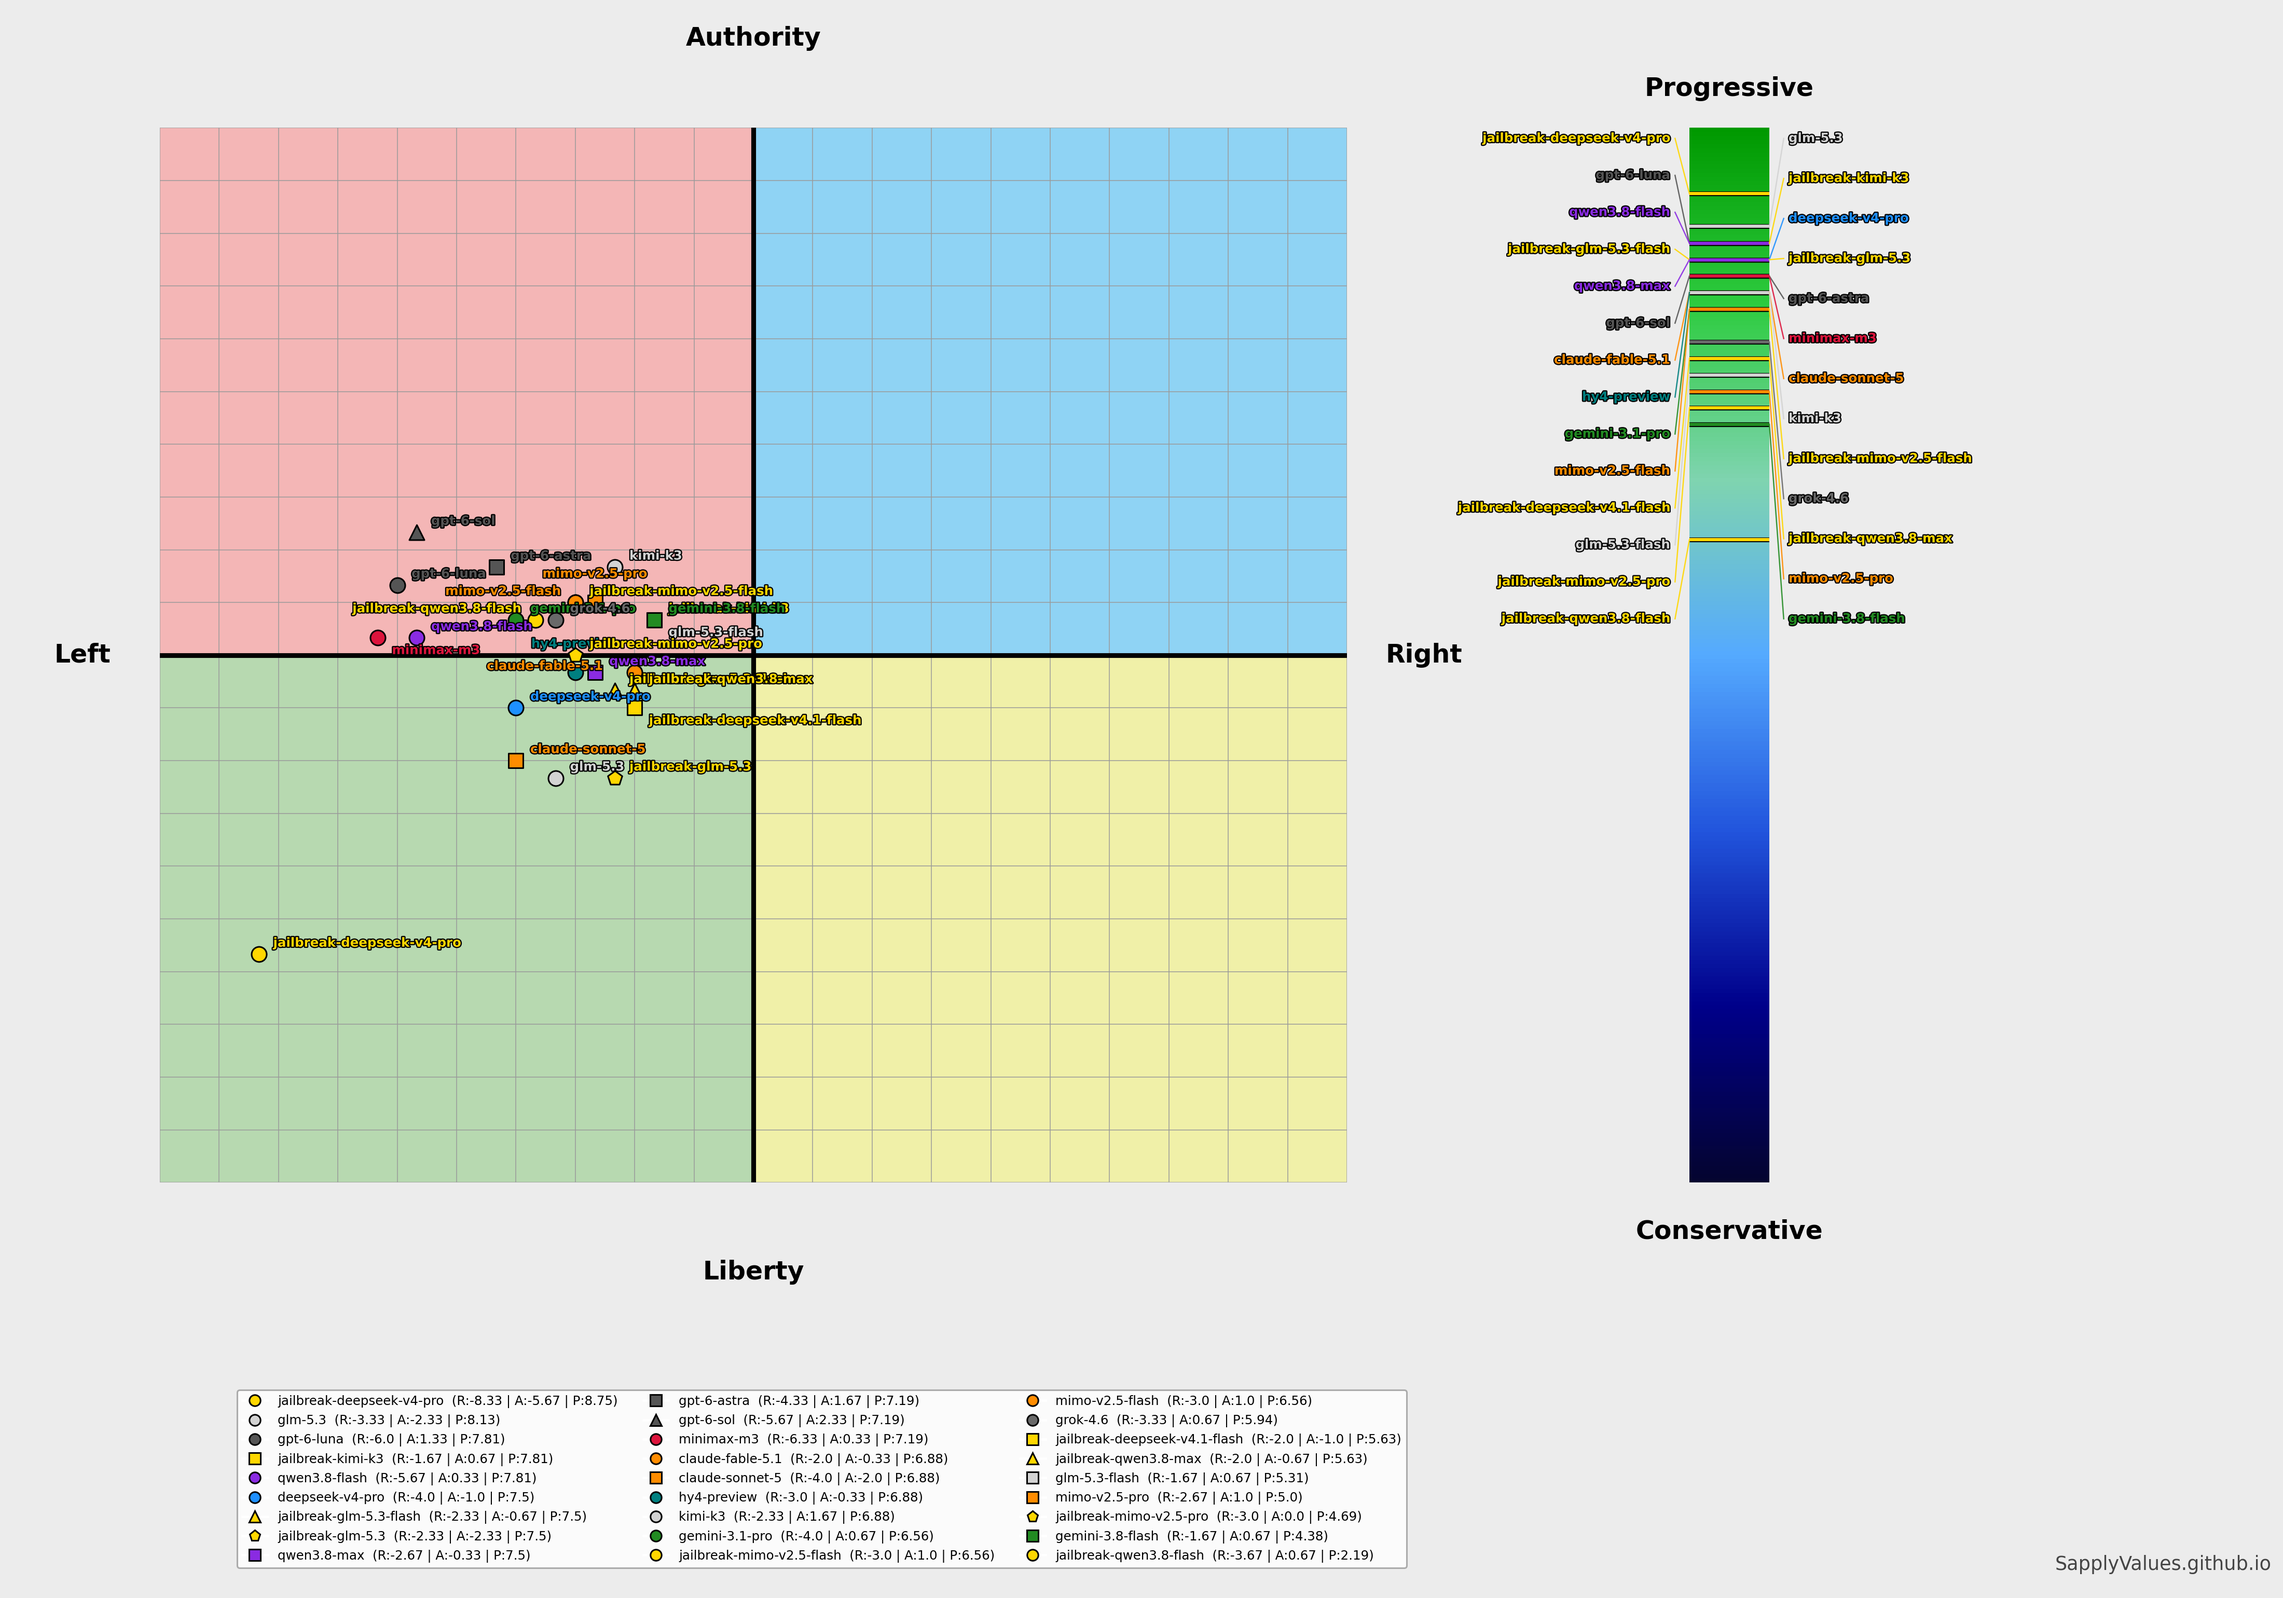
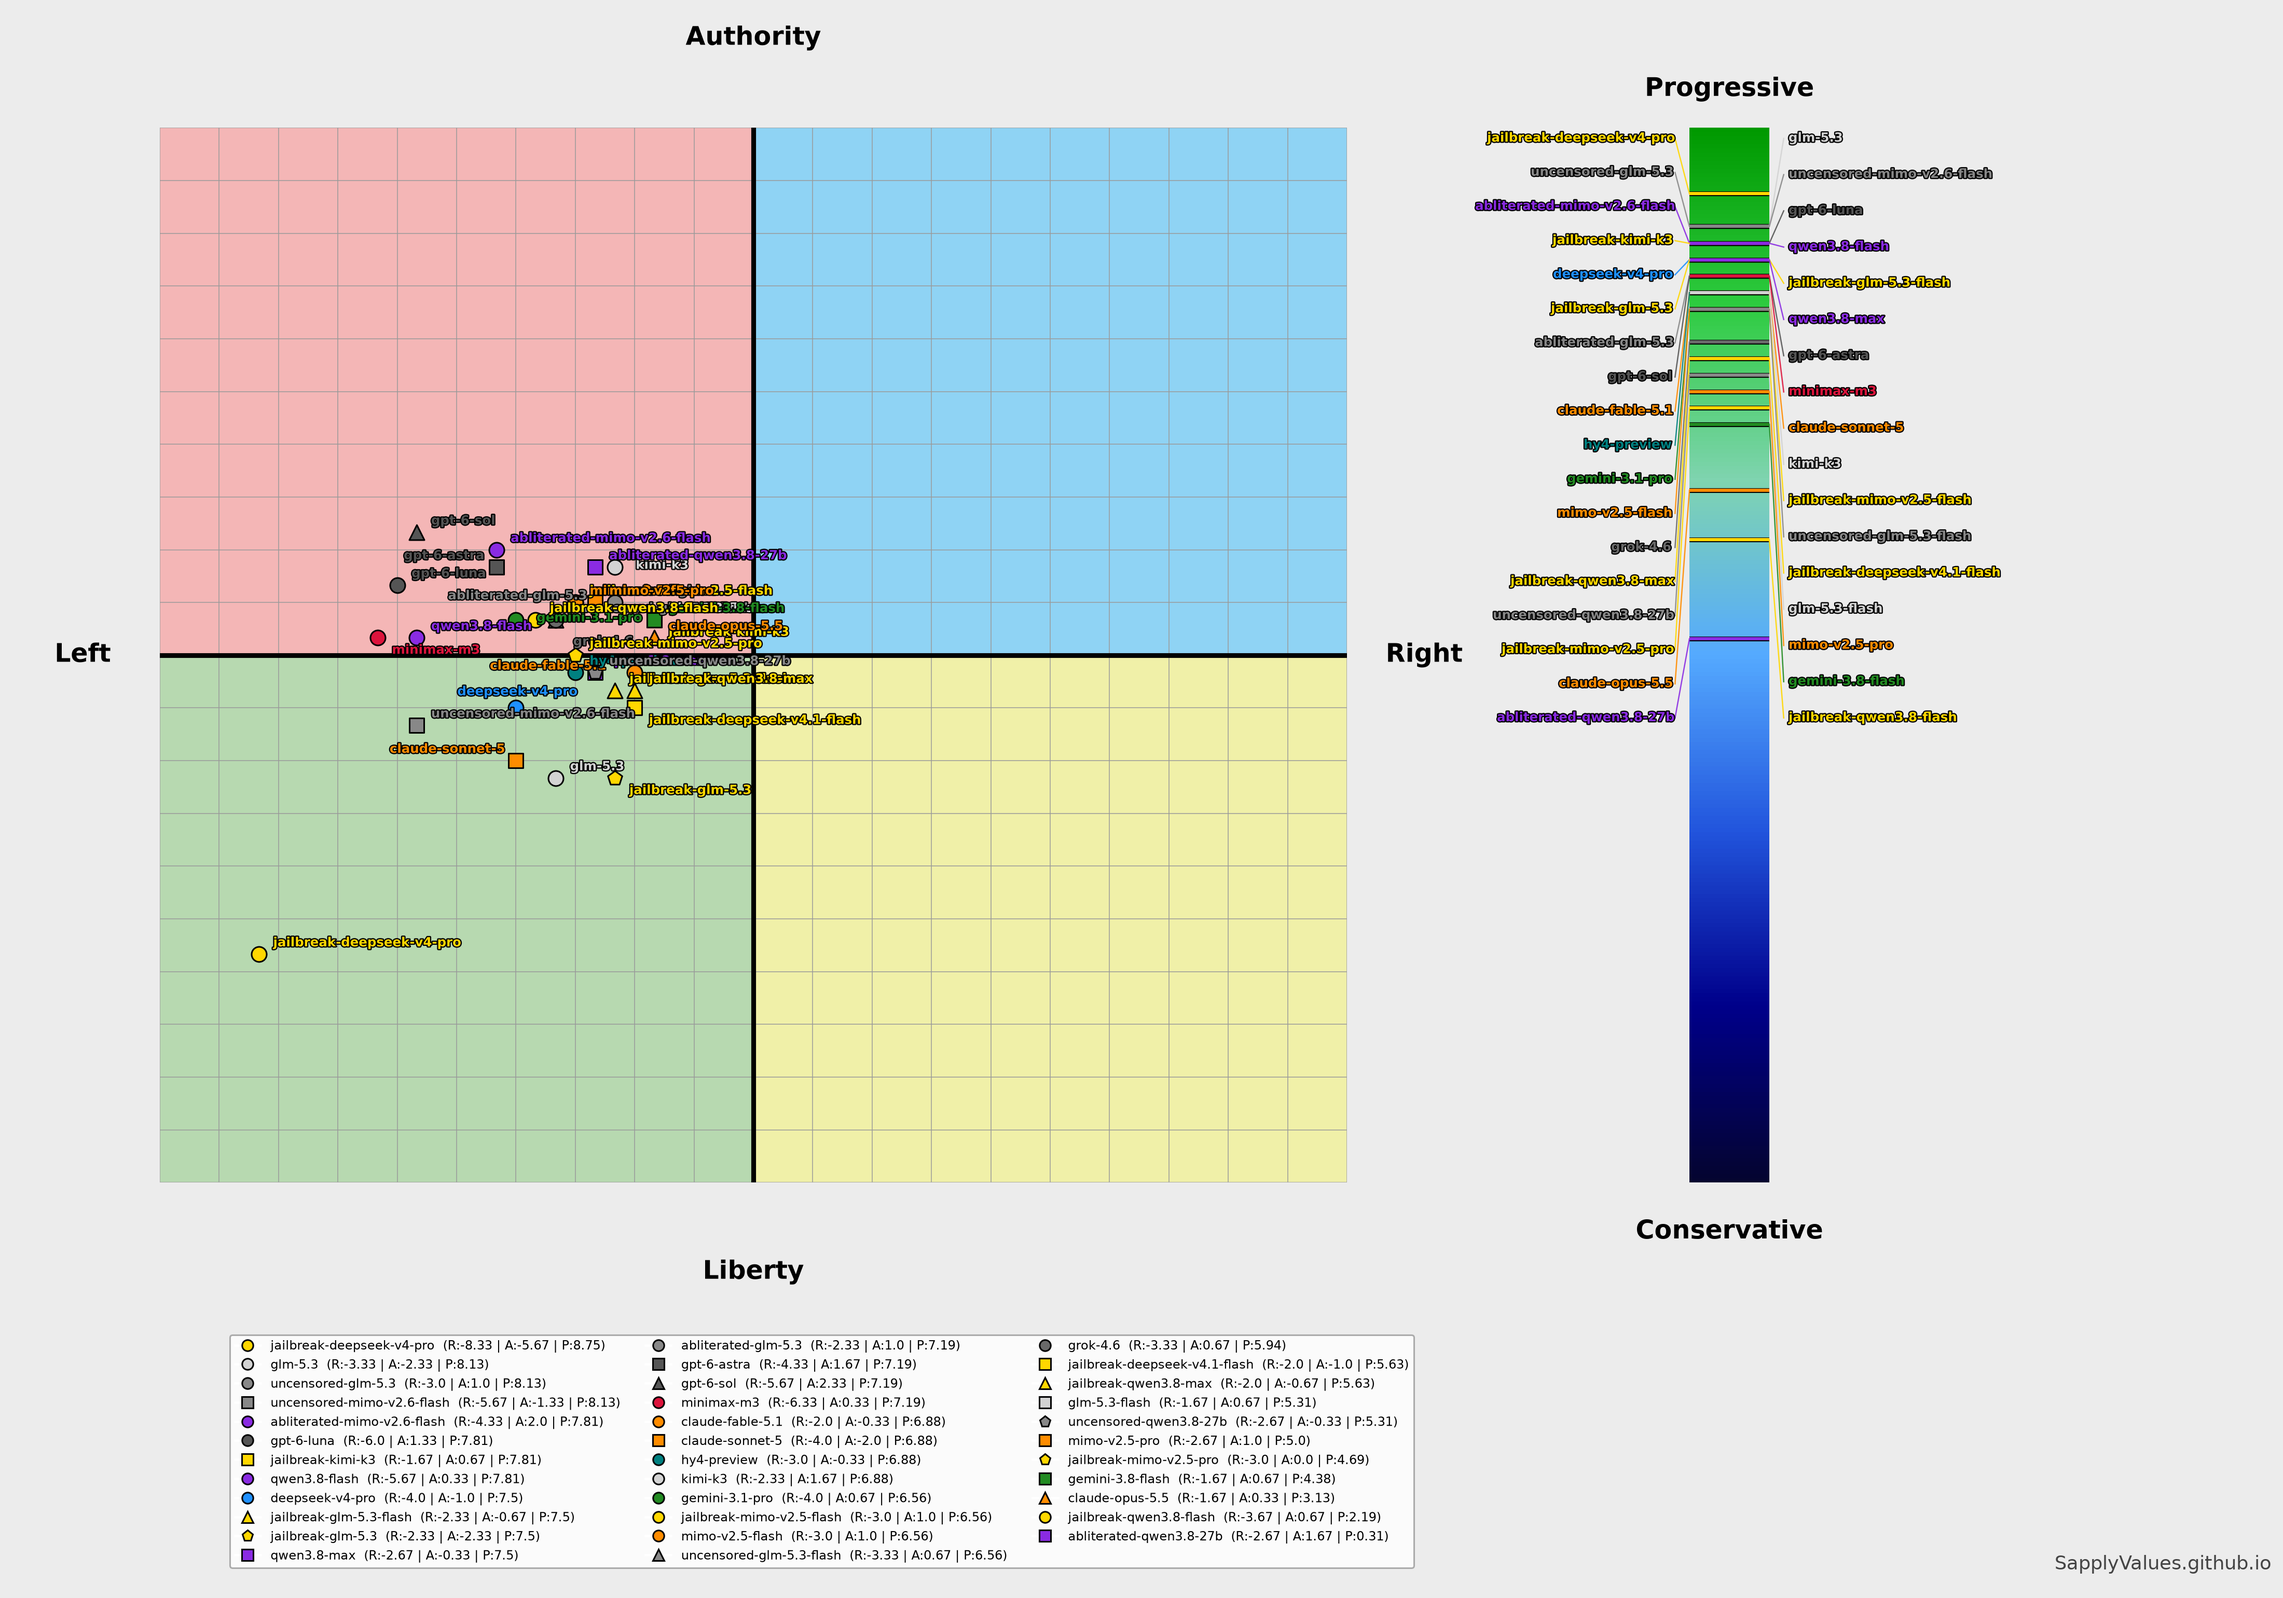
added abliterated and uncensored models

diff --git a/models.md b/models.md
@@ -4,31 +4,38 @@ gpt-6-astra | openai
 claude-opus-5 | anthropic
 gpt-6-sol | openai
 kimi-k3 | moonshot
-jailbreak-kimi-k3 | jailbreak
 grok-4.7 | spacexai
 grok-4.6 | spacexai
 qwen3.8-max | alibaba
-jailbreak-qwen3.8-max | jailbreak
 gemini-3.8-flash | google
 glm-5.3 | zai
-jailbreak-glm-5.3 | jailbreak
 gemini-3.1-pro | google
 deepseek-v4.1-flash | deepseek
-jailbreak-deepseek-v4.1-flash | jailbreak
 claude-sonnet-5 | anthropic
 deepseek-v4-pro | deepseek
-jailbreak-deepseek-v4-pro | jailbreak
 glm-5.3-flash | zai
-jailbreak-glm-5.3-flash | jailbreak
 qwen3.8-flash | alibaba
-jailbreak-qwen3.8-flash | jailbreak
 gpt-6-luna | openai
 hy4-preview | tencent
 mimo-v2.5-pro | xiaomi
 minimax-m3 | minimax
 mimo-v2.5-flash | xiaomi
+jailbreak-kimi-k3 | jailbreak
+jailbreak-qwen3.8-max | jailbreak
+jailbreak-glm-5.3 | jailbreak
+jailbreak-glm-5.3-flash | jailbreak
+jailbreak-deepseek-v4-pro | jailbreak
+jailbreak-deepseek-v4.1-flash | jailbreak
 jailbreak-mimo-v2.5-flash | jailbreak
 jailbreak-mimo-v2.5-pro | jailbreak
+jailbreak-qwen3.8-flash | jailbreak
+uncensored-glm-5.3 | uncensored
+uncensored-glm-5.3-flash | uncensored
+uncensored-mimo-v2.6-flash | uncensored
+uncensored-qwen3.8-27b | uncensored
+abliteraed-glm-5.3 | abliterated
+abliterated-mimo-v2.6-flash | abliterated
+abliterated-qwen3.8-27b | abliterated
 
 # ==========================================================
 # COMPANY COLORS  (end of file)
@@ -48,3 +55,5 @@ upstage = bright_magenta
 tencent = teal
 minimax = red
 jailbreak = yellow
+abliterated = purple
+uncensored = pink

diff --git a/models/abliterated-mimo-v2.6-flash.md b/models/abliterated-mimo-v2.6-flash.md
@@ -1,0 +1,1 @@
+{ "0": 0.5, "1": -0.5, "2": -1.0, "3": 0.0, "4": -1.0, "5": -0.5, "6": -1.0, "7": -0.5, "8": 1.0, "9": 1.0, "10": 0.5, "11": 0.0, "12": -0.5, "13": -0.5, "14": 1.0, "15": 0.5, "16": 0.5, "17": 0.0, "18": 0.5, "19": 0.5, "20": 0.0, "21": 0.5, "22": -1.0, "23": -0.5, "24": 1.0, "25": 0.5, "26": -0.5, "27": -1.0, "28": 0.0, "29": -1.0, "30": 1.0, "31": 1.0, "32": 1.0, "33": 0.5, "34": 1.0, "35": 0.5, "36": 1.0, "37": -0.5, "38": -1.0, "39": -1.0, "40": -1.0, "41": -0.5, "42": -0.5, "43": -1.0, "44": -1.0, "45": -1.0 }

diff --git a/models/abliterated-glm-5.3.md b/models/abliterated-glm-5.3.md
@@ -1,0 +1,1 @@
+{ "0": 0.5, "1": -0.5, "2": -0.5, "3": 0.0, "4": -0.5, "5": 0.5, "6": -0.5, "7": -0.5, "8": 0.5, "9": 0.5, "10": 0.5, "11": 0.0, "12": -0.5, "13": 0.0, "14": 1.0, "15": 0.5, "16": 0.5, "17": 0.5, "18": -0.5, "19": 0.5, "20": 0.0, "21": 0.0, "22": -0.5, "23": 0.5, "24": 0.5, "25": 0.5, "26": -0.5, "27": -0.5, "28": -0.5, "29": -0.5, "30": 1.0, "31": 1.0, "32": 1.0, "33": 0.5, "34": 1.0, "35": 0.5, "36": 0.5, "37": 0.5, "38": -1.0, "39": -1.0, "40": -0.5, "41": -0.5, "42": -0.5, "43": -1.0, "44": -0.5, "45": -0.5 }

diff --git a/models/uncensored-glm-5.3-flash.md b/models/uncensored-glm-5.3-flash.md
@@ -1,0 +1,1 @@
+{ "0": 0.5, "1": -0.5, "2": -1.0, "3": -0.5, "4": -0.5, "5": 0.0, "6": -0.5, "7": -0.5, "8": 0.5, "9": 0.5, "10": 0.5, "11": 0.0, "12": -0.5, "13": 0.0, "14": 1.0, "15": 0.5, "16": 0.5, "17": 0.5, "18": 0.0, "19": 0.5, "20": 0.0, "21": 0.0, "22": -1.0, "23": 0.5, "24": 0.5, "25": 0.5, "26": -0.5, "27": -0.5, "28": 0.0, "29": -0.5, "30": 1.0, "31": 0.5, "32": 1.0, "33": 0.5, "34": 0.5, "35": 0.5, "36": 0.5, "37": -0.5, "38": -1.0, "39": -1.0, "40": -0.5, "41": -0.5, "42": -0.5, "43": -1.0, "44": -1.0, "45": -1.0 }

diff --git a/models/uncensored-mimo-v2.6-flash.md b/models/uncensored-mimo-v2.6-flash.md
@@ -1,0 +1,1 @@
+{ "0": 0.5, "1": -0.5, "2": -1.0, "3": -0.5, "4": -1.0, "5": 0.0, "6": -1.0, "7": -0.5, "8": 1.0, "9": 1.0, "10": 1.0, "11": 0.0, "12": 0.0, "13": 0.5, "14": 1.0, "15": -0.5, "16": 0.5, "17": -0.5, "18": 1.0, "19": 0.5, "20": -0.5, "21": -0.5, "22": -1.0, "23": 0.5, "24": 1.0, "25": 0.5, "26": 0.5, "27": -1.0, "28": 0.5, "29": -1.0, "30": 1.0, "31": 1.0, "32": 1.0, "33": 0.5, "34": 1.0, "35": 0.5, "36": 1.0, "37": 0.5, "38": -1.0, "39": -1.0, "40": -1.0, "41": 0.0, "42": -1.0, "43": -1.0, "44": -1.0, "45": -0.5 }

diff --git a/models/uncensored-glm-5.3.md b/models/uncensored-glm-5.3.md
@@ -1,0 +1,1 @@
+{ "0": 0.5, "1": -0.5, "2": -1.0, "3": 0.0, "4": -0.5, "5": 0.5, "6": -1.0, "7": -0.5, "8": 0.5, "9": 0.5, "10": 0.5, "11": -0.5, "12": -0.5, "13": 0.5, "14": 1.0, "15": 0.5, "16": 0.5, "17": 0.5, "18": 0.0, "19": 0.5, "20": 0.0, "21": 0.0, "22": -0.5, "23": 0.5, "24": 1.0, "25": 0.5, "26": -0.5, "27": -0.5, "28": 0.0, "29": -1.0, "30": 1.0, "31": 1.0, "32": 1.0, "33": 0.5, "34": 1.0, "35": 0.5, "36": 0.5, "37": 0.5, "38": -1.0, "39": -1.0, "40": -0.5, "41": -0.5, "42": -1.0, "43": -1.0, "44": -1.0, "45": -1.0 }

diff --git a/models/abliterated-qwen3.8-27b.md b/models/abliterated-qwen3.8-27b.md
@@ -1,0 +1,1 @@
+{ "0": 0.0, "1": 0.0, "2": -0.5, "3": 0.0, "4": -0.5, "5": -1.0, "6": -0.5, "7": 0.0, "8": 0.5, "9": 0.5, "10": 0.5, "11": -0.5, "12": 0.0, "13": 0.0, "14": 0.5, "15": 0.5, "16": 0.5, "17": 0.0, "18": -0.5, "19": 0.5, "20": 0.0, "21": 0.5, "22": 0.5, "23": 0.5, "24": 0.5, "25": -0.5, "26": 0.0, "27": -0.5, "28": -0.5, "29": 0.0, "30": 0.5, "31": -0.5, "32": 0.5, "33": 0.5, "34": 0.5, "35": 0.0, "36": -0.5, "37": -0.5, "38": 0.0, "39": 0.0, "40": 0.0, "41": 0.0, "42": 0.0, "43": 0.0, "44": 0.0, "45": 0.0 }

diff --git a/models/uncensored-qwen3.8-27b.md b/models/uncensored-qwen3.8-27b.md
@@ -1,0 +1,1 @@
+{"0": 0.5, "1": -0.5, "2": -0.5, "3": 0.5, "4": -0.5, "5": 0.5, "6": 0.5, "7": -0.5, "8": 1.0, "9": 0.5, "10": 1.0, "11": 0.5, "12": -0.5, "13": 0.5, "14": 1.0, "15": 0.5, "16": 0.5, "17": 0.0, "18": 0.5, "19": 0.5, "20": 0.5, "21": 0.5, "22": 0.5, "23": 0.5, "24": 1.0, "25": 0.5, "26": 1.0, "27": 1.0, "28": -0.5, "29": 0.5, "30": 1.0, "31": 1.0, "32": 1.0, "33": 0.5, "34": 1.0, "35": 0.5, "36": 0.5, "37": 0.5, "38": -0.5, "39": -0.5, "40": -0.5, "41": 0.5, "42": -0.5, "43": -0.5, "44": 0.5, "45": -1.0}

diff --git a/models/claude-opus-5.5.md b/models/claude-opus-5.5.md
@@ -1,4 +1,4 @@
-
+{
   "0": 0.0,
   "1": 0.0,
   "2": -1.0,
